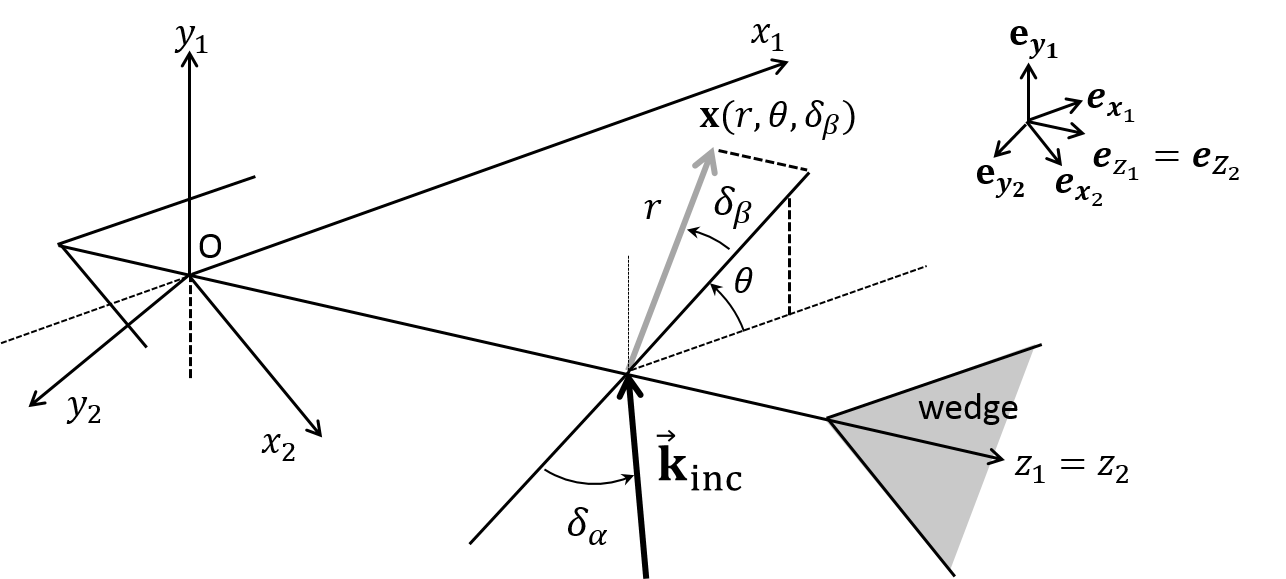
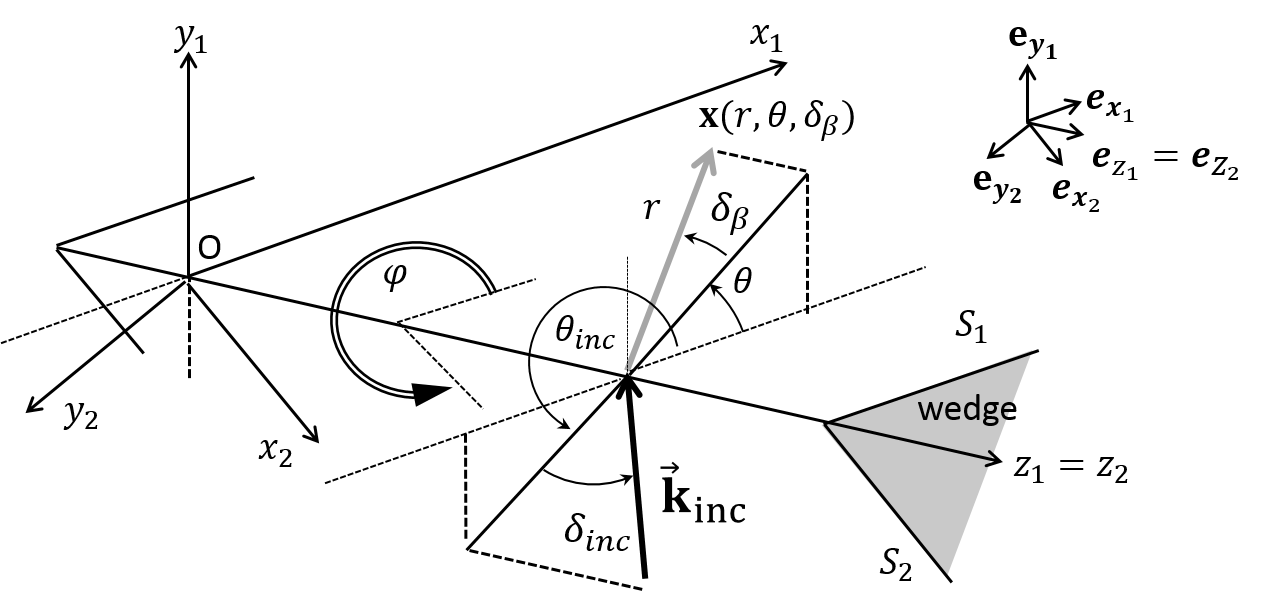
translated pb statement

diff --git a/en-arborescence/corps/chapter4.tex b/en-arborescence/corps/chapter4.tex
@@ -7,37 +7,32 @@
 
 \begin{figure}[h]
 \centering
-\begin{subfigure}[b]{0.65\textwidth}
-	\includegraphics[width=\textwidth]{diedre3D.png}
-	\caption{Dièdre d'angle $\varphi$ et l'onde incidente $\textbf{k}^{inc}$}
-	\label{diedre}
-\end{subfigure}
-\hfill
-\begin{subfigure}[b]{0.3\textwidth}
-	\includegraphics[width=\textwidth]{Spherical_Coordinates.png}
-	\caption{Système de coordonnées utilisé}
-	\label{coords}
-\end{subfigure}
-\caption{Géométrie du problème}
+	\includegraphics[width=\textwidth]{images/chapter4/wedge_3D.png}
+\caption{Geometry of the problem}
 \label{diedre_coords}
 \end{figure}
 
-On s'intéresse à la diffraction d'une onde élastique par un dièdre délimité par les faces $\mathcal{S}_1$ et $\mathcal{S}_2$ libres de contraintes. La géométrie du problème est donnée sur le schéma de la figure \ref{diedre_coords}. On définit alors l'intérieur du dièdre 
+Let us consider the problem of an elastic wave diffracted by a stress-free wedge delimited by faces $\mathcal{S}_1$ and $\mathcal{S}_2$. The geometry of the problem is shown on Fig.~\ref{diedre_coords}. The domain $\Omega$ is the inside of the wedge, defined by :
+\begin{equation}
+\Omega=\{ (r\cos \theta \cos \delta, r \sin \theta \cos \delta, r \sin \delta)\, \backslash \, \theta \in \rbrack 0, \varphi \lbrack, \, \delta \in \rbrack -\frac{\pi}{2}, \frac{\pi}{2} \lbrack \}
+\end{equation}
+%et sa surface
+%$$ \mathcal{S}=\mathcal{S}_1 \cup \mathcal{S}_2 $$
 
-$$\Omega=\{ (r\cos \theta \cos \delta, r \sin \theta \cos \delta, r \sin \delta)\, \backslash \, \theta \in \rbrack 0, \varphi \lbrack, \, \delta \in \rbrack -\frac{\pi}{2}, \frac{\pi}{2} \lbrack \} $$
-et sa surface
-$$ \mathcal{S}=\mathcal{S}_1 \cup \mathcal{S}_2 $$
-
-On suppose que le dièdre est irradié par une onde plane incidente de la forme
-$$ \mathbf{u}^{inc}(\mathbf{x},t)=\mathbf{A}_{\alpha}e^{i(\mathbf{k}_{\alpha}^{inc}\cdot \mathbf{x}-\omega t)}$$
-Où $\mathbf{A}_{\alpha}$ est le vecteur d'amplitude de l'onde incidente et $\mathbf{k}_{\alpha}^{inc}$ est le vecteur d'onde incident. On note $\alpha=L,TH,TV$ le type de l'onde incidente (L pour une onde longitudinale, TH pour une onde tranverse horizontale ou TV pour une onde transverse verticale). Dans le repère $(\mathbf{x}_1,\mathbf{y}_1, \mathbf{z}_1)$, le vecteur d'onde incident est donné par :
-$$\mathbf{k}_{\alpha}^{inc}=\frac{\omega}{c_{\alpha}} \begin{pmatrix}
+The incident wave is a plane wave of the form
+\begin{equation}
+\mathbf{u}^{inc}(\mathbf{x},t)=\mathbf{A}_{\alpha}e^{i(\mathbf{k}_{\alpha}^{inc}\cdot \mathbf{x}-\omega t)}
+\end{equation}
+where $\mathbf{A}_{\alpha}$ is the amplitude vector of the incident wave and $\mathbf{k}_{\alpha}^{inc}$ is the incident wave vector. The type of the incident wave is denoted $\mathbf{k}_{\alpha}^{inc}$ (L for a longitudinal wave, TH for transverse horizontal and TV for transverse vertical). $(\mathbf{x}_1,\mathbf{y}_1, \mathbf{z}_1)$ is a Cartesian coordinate system associated to face $\mathcal{S}_1$. In this system, the incident wave vector is given by :
+\begin{equation}
+\mathbf{k}_{\alpha}^{inc}=\frac{\omega}{c_{\alpha}} \begin{pmatrix}
 \cos\theta_{inc} \cos \delta_{inc} \\ \sin\theta_{inc} \cos \delta_{inc} \\
 \sin \delta_{inc}
-\end{pmatrix} $$
-La grandeur $c_L=\sqrt{(\underline{\lambda}+2\underline{\mu})/\rho}$ est la célérité des ondes longitudinales (c'est-à-dire les ondes dont l'amplitude est parallèle à la direction de propagation donnée par le vecteur d'onde) dans le matériau considéré st $c_T=\sqrt{\underline{\mu}/\rho}$ celle des ondes transversales (dont l'amplitude dans le plan normal à la direction de propagation) avec $\underline{\lambda}, \underline{\mu}$ les coefficients de Lamé. 
-\paragraph{}
-Le vecteur d'amplitude peut être dirigé suivant trois directions différentes et deux à deux orthogonales, selon la polarisation de l'onde incidente. Celle-ci peut-être longitudinale (notée L), transverse verticale (notée TV) ou transverse horizontale (notée TH). On note alors $\hat{i}_*$ avec $*=L, TH, TV$ le vecteur unitaire correspondant à chacune de ces polarisations. Il est donné par Achenbach \cite{Achenbach}, formule (1.39) :
+\end{pmatrix}
+\end{equation}
+As always, $c_L$ is the velocity of longitudinal waves and $c_T$ is the velocity of transverse waves.
+
+The amplitude vector can be directed by three different and two-by-two orthogonal vectors, depending on the incident wave's polarization. These unit polarization vectors are noted $\hat{i}_*$, where $*=L, TH, TV$ and are given by Achenbach \cite{Achenbach} :
 \begin{equation}
 \hat{i}_L = \begin{pmatrix}
 \cos\theta_{inc} \cos \delta_{inc} \\ \sin\theta_{inc} \cos \delta_{inc} \\
@@ -57,57 +52,44 @@ Le vecteur d'amplitude peut être dirigé suivant trois directions différentes 
 \end{pmatrix}
 \label{ivec}
 \end{equation}
-On a alors
-$$ \mathbf{A}_L \in \mbox{Vect}(\hat{i}_L) $$
-$$ \mathbf{A}_T \in \mbox{Vect}(\hat{i}_{TV}, \hat{i}_{TH})$$
-La notation Vect désigne l'espace engendré par un vecteur ou une famille de vecteurs.
-\paragraph{}
-%Dans toute la suite, on suppose que le repère utilisé est le repère $(\mathbf{x}_1,\mathbf{y}_1, \mathbf{z}_1)$, sauf mention explicite du contraire.
- Rappellons l'équation de l'élasticité linéaire pour un matériau homogène isotrope dont est solution le champ de déplacement $\mathbf{u}$ :
+
+In all the following, vectors are expressed in the coordinate system $(\mathbf{x}_1,\mathbf{y}_1, \mathbf{z}_1)$, except when explicitly mentioned otherwise. For a homogeneous, isotropic material, the linear elasticity equation solved by the displacement field $\mathbf{u}$ is 
 \begin{equation}
 \underline{\mu} \Delta \mathbf{u} + (\underline{\lambda}+\underline{\mu})\nabla \nabla \mathbf{u} = \rho \frac{\partial^2 \mathbf{u}}{\partial t^2}
-\label{Elasticitelin}
+\label{C4:Elasticitelin}
 \end{equation}
-Sur les faces du dièdre, ce champ vérifie la condition de surface libre (absence de contraintes normales) qui s'écrit :
+On each of the wedge faces, the displacement field verifies the zero-stress boundary conditions, expressed as :
 \begin{equation}
 (\underline{\lambda} \nabla \mathbf{u} .\mathbf{\mathbb{I}_3}+2\underline{\mu} \mathbf{\varepsilon} (\mathbf{u})).\mathbf{n}=0
+\label{C4:stressfree}
 \end{equation}
-On précise que $\mathbf{\mathbb{I}_3}$ est la matrice identité d'ordre 3, $n$ est la normale intérieure au dièdre (soit $n=\mathbf{y}_1$ sur $\mathcal{S}_1$  et $n=\mathbf{y}_2$ sur $\mathcal{S}_2$) et $\underline{\lambda}, \underline{\mu}$ sont les coefficients de Lamé, propres au matériau considéré. On rappelle également l'expression du tenseur des déformations :
-$$ \mathbf{\varepsilon}_{ij}(\mathbf{u})=\frac{1}{2} (\frac{\partial u_i}{\partial x_j}+\frac{\partial u_j}{\partial x_i}) $$
-%\paragraph{}
-%Kamotski et Lebeau \cite{Lebeau2} ont démontré l'existence et l'unicité d'une solution à ce problème dans le cas bidimensionnel. Cette démonstration reste valable dans le cas présent. Nous allons détailler ici une procédure de calcul de cette solution.
-\paragraph{}
- Désormais, les caractères gras seront réservés aux matrices afin de simplifier les notations. Les solutions cherchées sont harmoniques en temps, on ommettra dans la suite le facteur $e^{-i\omega t}$ commun à tous les termes de la solution. De plus, il n'y a aucun obstacle à la propagation dans la direction z, le facteur $e^{i\frac{\omega}{c_{\alpha}}\sin\delta_{inc}z}$ est donc lui aussi commun à tous les termes intervenant  dans l'écriture de la solution. 
-% On rappelle la loi de Snell :
-% \begin{equation}
-% \frac{1}{c_{\alpha}}\sin\delta_{\alpha}=\frac{1}{c_{\beta}}\sin\delta_{\beta}
-% \label{Snell}
-% \end{equation}
-\paragraph{}
-On suppose que le champ total u est la somme du champ incident $u^{inc}$ et d'un champ diffracté $u_0$.
+where $\mathbf{\mathbb{I}_3}$ is the identity matrix of the third order, $n$ is the inward facing normal to the wedge face ($n=\mathbf{y}_1$ on $\mathcal{S}_1$  and $n=\mathbf{y}_2$ on $\mathcal{S}_2$) and $\underline{\lambda}, \underline{\mu}$ are the Lamé coefficients of the considered elastic medium. The expression of the deformations tensor is :
+\begin{equation}
+\mathbf{\varepsilon}_{ij}(\mathbf{u})=\frac{1}{2} (\frac{\partial u_i}{\partial x_j}+\frac{\partial u_j}{\partial x_i}), \hspace{2em} 1\leq i,j \leq 3
+\end{equation}
+Kamotski and Lebeau \cite{KamotskiLebeau} have proven existence and uniqueness of the solution to this problem in the 2D the case. We will suppose that their demonstration is still valid in the 3D case.
+
+From hereon after, bold characters will be reserved to matrices in order to simplify notations. The solutions being time harmonic, the factor $e^{-i\omega t}$ will be implied but omitted everywhere. Furthermore, since there is no obstacle to propagation in the $z$ direction, $e^{i\frac{\omega}{c_{\alpha}}\sin\delta_{inc}z}$ is also a common factor to all the terms which appear in the solution.
+
+The total field is written as the sum of an incident field $u^{inc}$ and a scattered field $u_0$
 \begin{equation}
 u=u_0+u^{inc}
+\label{C4:scat}
 \end{equation}
-On adimensionne le problème en effectuant le changement de variables :
+
+The dimensionless problem is obtained by applying the following variable change :
 \begin{equation}
 u_0(x,y,z)=v\left( \frac{\omega}{c_L} x, \frac{\omega}{c_L} y \right)e^{i\nu_{\alpha}\sin\delta_{\alpha}z}
-\label{adiming}
+\label{C4:adiming}
 \end{equation}
-Les coefficients de Lamé adimensionnés sont donnés par :
-$$ \lambda=\frac{\underline{\lambda}}{\rho c_L^2}, \; \; \; \; \mu=\frac{\underline{\mu}}{\rho c_L^2}$$
-On définit également les paramètres sans dimension suivants :
-\begin{equation}
-\nu_L=1 \hspace{2em} \nu_T=\frac{c_L}{c_T} 
-\end{equation}
-Pour simplifier les notations, dans toute la suite on notera :
+where $\delta_{\alpha}=\delta_{inc}$, the dimensionless Lamé parameters $\lambda,\mu$ are given by \eqref{LameAdim} and parameters $\nu_L$ and $\nu_T$ are defined by \eqref{nuLnuT}. To simplify notations, we define the following parameter $\tau$ is defined by :
 \begin{equation}
 \tau=\nu_{\alpha}\sin\delta_{\alpha}
 \label{deftau}
 \end{equation}
-Il est important de noter que l'on a $\tau \in \lbrack -\nu_{\alpha}, \nu_{\alpha} \rbrack$. La dépendance en z de $u_0$ est donc contenue dans le facteur $e^{i\tau z}$ qui sera omis dans toute la suite.
+Note that we therefore always have $\tau \in \lbrack -\nu_{\alpha}, \nu_{\alpha} \rbrack$. $u_0$'s $z$-dependence is entirely contained in the factor $e^{i\tau z}$ which will be implied but omitted in all the following.
 
-Le problème adimensionné que l'on cherche à résoudre s'écrit finalement:
-
+Substituting \eqref{C4:scat} and \eqref{C4:adiming} into \eqref{C4:Elasticitelin} and \eqref{C4:stressfree} yields the dimensionless problem
 \begin{eqnarray}
 (\mathcal{P}^*) \hspace{2em} \left\{
 \begin{array}{lr}
@@ -115,9 +97,9 @@ Le problème adimensionné que l'on cherche à résoudre s'écrit finalement:
 Bv=-Bv_{\alpha}^{inc} & (\mathcal{S})
 \end{array}
 \right.
-\label{Padim}
+\label{C4:Padim}
 \end{eqnarray}
-Avec,en notant $(v_1,v_2,v_3)$ les coordonnées de v :
+where $(v_1,v_2,v_3)$ are the components of vector $v$ :
 \begin{equation}
 Ev=\mu (\Delta v -\tau^2 v)+(\lambda+\mu)
 \begin{pmatrix}
@@ -125,15 +107,15 @@ Ev=\mu (\Delta v -\tau^2 v)+(\lambda+\mu)
 \frac{\partial^2 v_1}{\partial x \partial y}+\frac{\partial^2 v_2}{\partial y^2}+ i\tau\frac{\partial v_3}{\partial y}\\
 i\tau\left( \frac{\partial v_1}{\partial x}+\frac{\partial v_2}{\partial y}\right)-\tau^2 v_3
 \end{pmatrix}
-\label{Eadim}
+\label{C4:Eadim}
 \end{equation}
-et
+and
 \begin{equation}
 Bv=\begin{pmatrix}
 \mu \left(\frac{\partial v_x}{\partial y}+\frac{\partial v_y}{\partial x}\right) \\
 \frac{\partial v_y}{\partial y}+\lambda\left( \frac{\partial v_x}{\partial x}+i\tau v_z\right)\\
 \mu \left(\frac{\partial v_z}{\partial y}+i\tau v_y\right)
 \end{pmatrix}
-\label{Badim}
+\label{C4:Badim}
 \end{equation}
-Où on note $E$ et $B$  l'opérateur d'élasticité adimmensionné et de contraintes normales respectivement. La première équation du système correspond donc à la version adimensionnée des équations de l'élasticité linéaire vérifiées et la seconde correspond à la condition de surface libre adimmensionnée.
+where $E$ and $B$ are respectively the dimensionless linear elasticity operator and normal stress operator. The first equation of system \eqref{C4:Padim} is the dimensionless version of the linear elasticity equation and the second equation is the dimensionless version of the stress-free boundary conditions.
